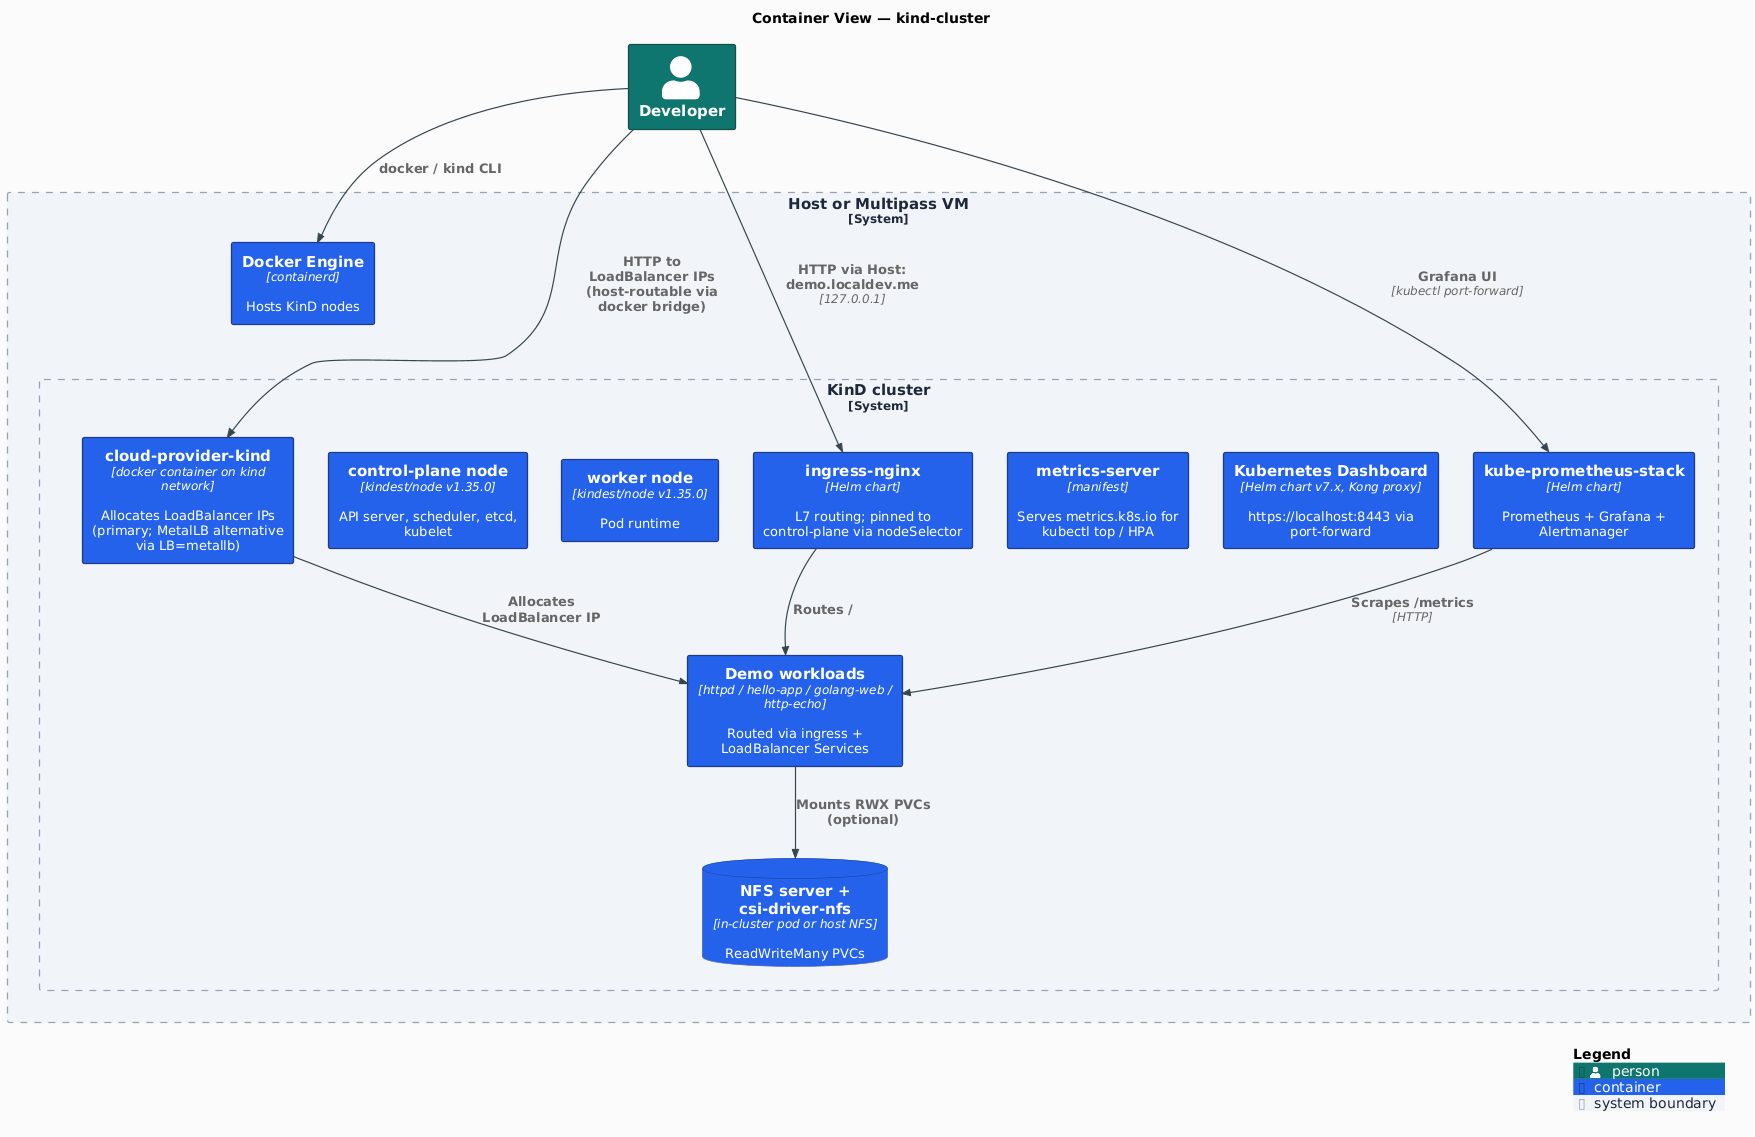
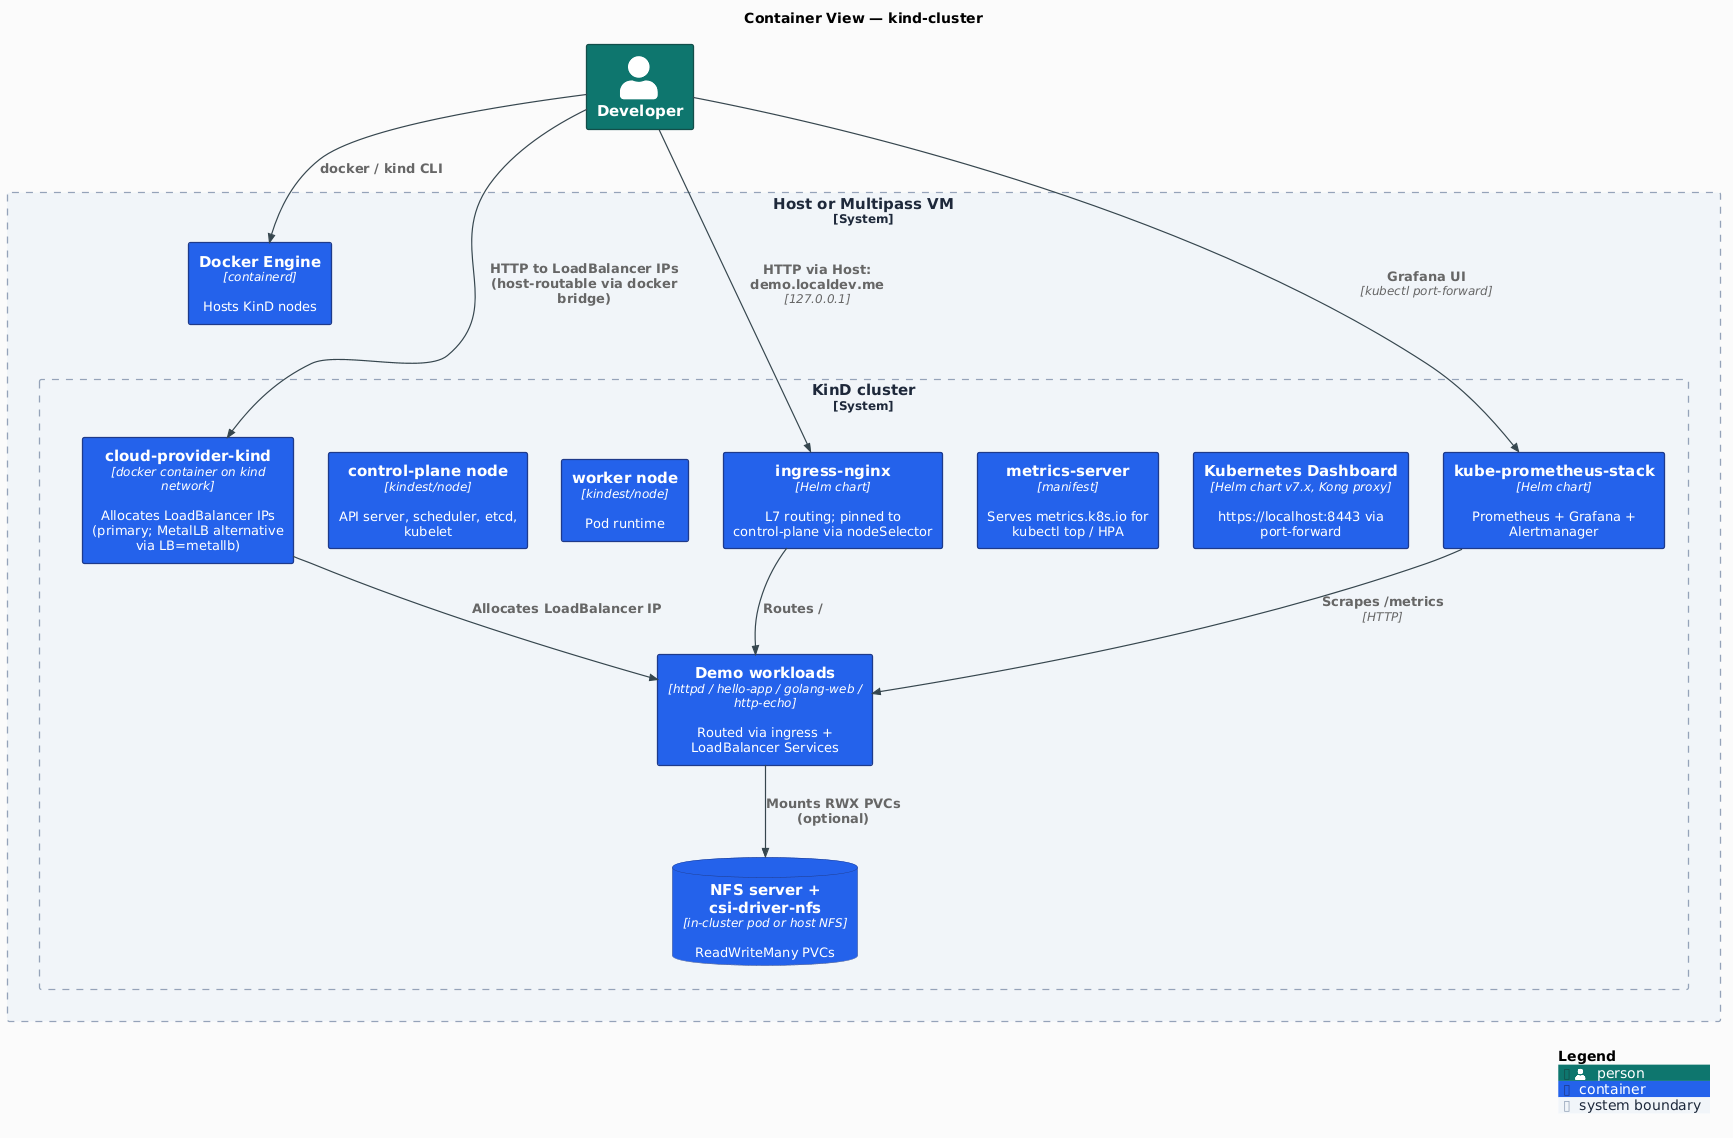
chore: apply /project-review findings across CI, Renovate, scripts, docs (#52)
Remediation of all findings from a full /project-review (Makefile, CI
workflows, Renovate, README, CLAUDE.md, architecture diagrams, e2e test
coverage). Verified: make ci, make ci-run, and a local make e2e (12/12)
all pass.

Fixes
- e2e: `make e2e` was silently broken — install-all omits metrics-server
  and in-cluster NFS, but e2e-smoke.sh asserted them unconditionally. Both
  are now opt-in (TEST_METRICS_SERVER / TEST_NFS), mirroring the existing
  TEST_MONITORING pattern; the three e2e workflows set the flags.
- ci.yml: paths-filter `base:` gated to push events (removes the PR
  warning annotation); tag pushes now force the full pipeline instead of
  skipping on an empty path-filter diff.
- Makefile: PLANTUML_VERSION is now a prerequisite of the rendered PNGs
  (version-stamped file), so a pinned-image bump forces a re-render. This
  surfaced a stale committed c4-context.png, re-rendered here.
- test-registry.sh: ephemeral local port + response-body assertion.
- .mise.toml: kubectl 1.36.0 -> 1.36.1 (had drifted behind the Makefile).
- clean: now removes the generated cert/token scratch artifacts.

Feature
- Unit-test harness: scripts/lib.sh (sourceable helpers) + tests/lib.bats
  (bats) + `make test`, wired into static-check. bats pinned in .mise.toml.

Renovate
- Pinned and tracked the previously-untracked kube-prometheus-stack and
  metrics-server Helm charts and the local-registry image.
- Grouped kindest/node with the kind tool bump.

Docs
[…]

Pull request: chore: apply /project-review findings across CI, Renovate, scripts, docs
## Summary

Remediation of all findings from a full `/project-review` across the
Makefile, CI workflows, Renovate config, README, CLAUDE.md, architecture
diagrams, and e2e test coverage.

### Fixes
- **`make e2e` was silently broken** — `install-all` does not install
  metrics-server or in-cluster NFS, but `e2e-smoke.sh` asserted them
  unconditionally, so a fresh `make e2e` always failed those checks (CI
  only passed because each workflow re-installs them as extra steps).
  The metrics-server and NFS assertions are now opt-in via
  `TEST_METRICS_SERVER` / `TEST_NFS`, mirroring the existing
  `TEST_MONITORING` pattern; the three e2e workflows set the flags.
- **`ci.yml` path-filter** — `base:` is gated to push events (it is
  ignored on `pull_request` events and emitted a warning annotation on
  every PR run); tag pushes (`v*`) now force the full pipeline instead of
  skipping when the path-filter computes an empty diff.
- **Diagram drift gate** — `PLANTUML_VERSION` is now a prerequisite of the
  rendered PNGs (via a version-stamped file), so a pinned-image bump
  forces a re-render. This surfaced a stale committed `c4-context.png`
  (rendered by an older PlantUML); it has been re-rendered.
- **`test-registry.sh`** — ephemeral local port (avoids an `:8080`
  collision) + a response-body assertion instead of a bare status check.
- **`.mise.toml`** — kubectl `1.36.0` → `1.36.1` (had drifted behind the
  Makefile pin).
[…]

diff --git a/CLAUDE.md b/CLAUDE.md
@@ -13,15 +13,17 @@
 ```
 Makefile              # Task runner with help target
 .mise.toml            # Pinned tool versions (shellcheck, actionlint, gitleaks,
-                      #   trivy, hadolint, act, jq, kind, kubectl)
+                      #   trivy, hadolint, act, bats, jq, kind, kubectl)
 scripts/              # Bash scripts for cluster lifecycle and app deployment
-                      #   (includes kind-add-{metallb,cloud-provider-kind}.sh
-                      #    and migrate-from-metallb.sh)
+                      #   (lib.sh = sourceable helpers; kind-add-* installers;
+                      #    migrate-from-metallb.sh; e2e-*.sh smoke tests)
+tests/                # bats unit tests for scripts/lib.sh (make test)
 k8s/                  # Kubernetes manifests (kind config, dashboard, NFS, etc.)
 images/               # Dockerfiles (kubectl-test image)
-docs/diagrams/        # PlantUML C4 sources + rendered PNGs
+docs/diagrams/        # PlantUML C4 sources (.puml) + rendered PNGs (out/)
 vm/                   # Multipass cloud-init playbook
-.github/workflows/    # CI: ci.yml, e2e-metallb.yml, cleanup-runs.yml
+.github/workflows/    # CI: ci.yml, e2e-metallb.yml, monitoring-test.yml,
+                      #   registry-test.yml, cleanup-runs.yml
 ```
 
 ## Common Commands
@@ -49,10 +51,12 @@ make vm-down                           # Stop + delete + purge the VM
 # Local quality gates (pinned tools installed on first run via `make deps`;
 # mise is auto-bootstrapped into ~/.local/bin if missing)
 make lint                              # shellcheck + actionlint + hadolint
+make test                              # bats unit tests for scripts/lib.sh helpers
 make secrets                           # gitleaks (suppressions: .gitleaks.toml)
 make trivy-fs                          # Trivy CVE/secret/misconfig scan (suppressions: .trivyignore.yaml)
 make trivy-config                      # Trivy K8s manifest scan
 make mermaid-lint                      # Validate mermaid diagrams in all *.md files (via docker)
+make diagrams                          # Render PlantUML C4 diagrams to PNG (via docker)
 make diagrams-check                    # Verify committed PNGs match docs/diagrams/*.puml (via docker)
 make static-check                      # Composite: all of the above
 make ci                                # static-check + renovate-validate
@@ -66,9 +70,9 @@ make vulncheck                         # Alias for trivy-fs (portfolio-standard 
 
 ## CI/CD
 
-- **ci.yml** — runs on push to `main`, tags `v*`, and PRs. Five jobs: `changes` → `static-check` → (`docker` ‖ `e2e`) → `ci-pass`. The `changes` job uses `dorny/paths-filter` to detect whether any non-doc file changed; downstream jobs short-circuit on doc-only changes via `if: needs.changes.outputs.code == 'true'`. `static-check` and `e2e` use `jdx/mise-action` to install the pinned toolchain from `.mise.toml` (kind, kubectl, jq, shellcheck, actionlint, gitleaks, trivy, hadolint, act — Renovate-tracked via the mise manager). The `e2e` job installs **cloud-provider-kind** as the LoadBalancer provider, runs all install/deploy scripts, polls until the ingress route is data-plane-ready (K1.5 — IP assigned ≠ IP routable), then `make e2e` (delegates to `scripts/e2e-smoke.sh`) for body-asserting smoke tests via `docker exec` curl. `helm/kind-action` was dropped in favor of explicit `make` invocations to avoid the action's built-in Post-step teardown flaking on Docker daemon `did not receive an exit event` errors at job-end.
-- **e2e-metallb.yml** — weekly cron (Sunday 04:00 UTC) + `workflow_dispatch` + push on `scripts/kind-add-metallb.sh` (positive-include `paths:` filter is intentional — workflow only runs when its own code changes). Mirrors the `e2e` job but installs **MetalLB** instead of cloud-provider-kind; same K1.5 route-readiness poll before `LB=metallb make e2e`. Final step runs `scripts/e2e-migrate-smoke.sh` to exercise the **MetalLB → cloud-provider-kind migration** path so regressions in `migrate-from-metallb.sh` surface here.
-- **monitoring-test.yml** — weekly cron (Sunday 05:00 UTC) + `workflow_dispatch` + push on `scripts/kind-add-kube-prometheus-stack.sh`. Brings up the full stack via `make install-all` (cloud-provider-kind), installs `kube-prometheus-stack`, then runs `TEST_MONITORING=yes make e2e` to assert Grafana gets a LoadBalancer IP and the admin secret is mintable. Off the default install-all path — kept on its own cron to keep PR feedback fast.
+- **ci.yml** — runs on push to `main`, tags `v*`, and PRs. Five jobs: `changes` → `static-check` → (`docker` ‖ `e2e`) → `ci-pass`. The `changes` job uses `dorny/paths-filter` to detect whether any non-doc file changed; downstream jobs short-circuit on doc-only changes via `if: needs.changes.outputs.code == 'true'`. `static-check` and `e2e` use `jdx/mise-action` to install the pinned toolchain from `.mise.toml` (kind, kubectl, jq, shellcheck, actionlint, gitleaks, trivy, hadolint, act — Renovate-tracked via the mise manager). The `e2e` job installs **cloud-provider-kind** as the LoadBalancer provider, runs all install/deploy scripts, polls until the ingress route is data-plane-ready (K1.5 — IP assigned ≠ IP routable), then `make e2e-smoke` (delegates to `scripts/e2e-smoke.sh`) for body-asserting smoke tests via `docker exec` curl. `helm/kind-action` was dropped in favor of explicit `make` invocations to avoid the action's built-in Post-step teardown flaking on Docker daemon `did not receive an exit event` errors at job-end.
+- **e2e-metallb.yml** — weekly cron (Sunday 04:00 UTC) + `workflow_dispatch` + push on `scripts/kind-add-metallb.sh` (positive-include `paths:` filter is intentional — workflow only runs when its own code changes). Mirrors the `e2e` job but installs **MetalLB** instead of cloud-provider-kind; same K1.5 route-readiness poll before `LB=metallb make e2e-smoke`. Final step runs `scripts/e2e-migrate-smoke.sh` to exercise the **MetalLB → cloud-provider-kind migration** path so regressions in `migrate-from-metallb.sh` surface here.
+- **monitoring-test.yml** — weekly cron (Sunday 05:00 UTC) + `workflow_dispatch` + push on `scripts/kind-add-kube-prometheus-stack.sh`. Brings up the full stack via `make install-all` (cloud-provider-kind), installs `kube-prometheus-stack`, then runs `TEST_MONITORING=yes make e2e-smoke` to assert Grafana gets a LoadBalancer IP and the admin secret is mintable. Off the default install-all path — kept on its own cron to keep PR feedback fast.
 - **registry-test.yml** — weekly cron (Sunday 06:00 UTC) + `workflow_dispatch` + push on registry-related files. Exercises the alternative `make registry` cluster (containerd-mirrored local registry at `localhost:5001`) via `make registry-test` (pull → retag → push → deploy → curl). Distinct from the install-all flow; separate workflow rather than another job.
 - **cleanup-runs.yml** — weekly cron (Sunday midnight). Two jobs: `cleanup-runs` (prunes old runs, keeps latest 5) and `cleanup-caches` (deletes caches from closed PR branches).
 
@@ -76,14 +80,14 @@ make vulncheck                         # Alias for trivy-fs (portfolio-standard 
 
 The following paths require resources GitHub-hosted runners can't reliably provide; they are verified manually before each release:
 
-- **`make vm-up` / `make vm-install-all` (Multipass)** — nested virtualization isn't reliably supported on `ubuntu-24.04` runners; cloud-init bootstrap takes 3–5 minutes; CI cost outweighs catch rate. Verify locally before tagging a release.
+- **`make vm-up` / `make vm-install-all` (Multipass)** — nested virtualization isn't reliably supported on `ubuntu-24.04` GitHub-hosted runners; cloud-init bootstrap takes 3–5 minutes; CI cost outweighs catch rate. Verify locally before tagging a release.
 - **`make nfs-host-setup`** — modifies `/etc/exports`, opens the firewall, requires interactive `sudo`. Out of scope for unattended CI. Verify locally on Ubuntu/Debian before tagging.
 
 ## Dependencies
 
 Runtime (user provides): Docker, helm, curl, base64.
 
-Pinned in [`.mise.toml`](./.mise.toml) and installed by `make deps` via [mise](https://mise.jdx.dev): `kind`, `kubectl`, `jq`, `shellcheck`, `actionlint`, `gitleaks`, `trivy`, `hadolint`, `act`. `make deps` auto-bootstraps mise into `~/.local/bin` if missing, then runs `mise install` (idempotent; no-op at pinned versions).
+Pinned in [`.mise.toml`](./.mise.toml) and installed by `make deps` via [mise](https://mise.jdx.dev): `kind`, `kubectl`, `jq`, `shellcheck`, `actionlint`, `gitleaks`, `trivy`, `hadolint`, `act`, `bats`. `make deps` auto-bootstraps mise into `~/.local/bin` if missing, then runs `mise install` (idempotent; no-op at pinned versions).
 
 Docker-image-pinned in Makefile (Renovate-tracked via inline `# renovate:` comments): `KUBECTL_VERSION` (shared with `images/Dockerfile` `--build-arg`; kept in sync with `aqua:kubernetes/kubectl` in `.mise.toml` via the `kubectl` packageRule), `MERMAID_CLI_VERSION`, `PLANTUML_VERSION`, `PUML2DRAWIO_VERSION`, `KIND_NODE_IMAGE`, `CLOUD_PROVIDER_KIND_VERSION`. `mermaid-cli` is invoked from `make mermaid-lint` (part of the `static-check` composite); `plantuml/plantuml` from `make diagrams` / `diagrams-check`.
 

diff --git a/README.md b/README.md
@@ -3,7 +3,7 @@
 [![License: MIT](https://img.shields.io/badge/License-MIT-brightgreen.svg)](https://opensource.org/licenses/MIT)
 [![Renovate enabled](https://img.shields.io/badge/renovate-enabled-brightgreen.svg)](https://app.renovatebot.com/dashboard#github/AndriyKalashnykov/kind-cluster)
 
-# kind-cluster
+# kind-cluster — Local Kubernetes Lab on KinD
 
 Local Kubernetes lab on Docker via [KinD](https://kind.sigs.k8s.io/) — ingress, LoadBalancer (cloud-provider-kind, or MetalLB), Dashboard, RWX NFS storage, and Prometheus wired up out of the box. Run on your host, or inside a throwaway Multipass VM.
 
@@ -14,8 +14,8 @@ Local Kubernetes lab on Docker via [KinD](https://kind.sigs.k8s.io/) — ingress
 | Cluster | [KinD](https://kind.sigs.k8s.io/) v0.31.0 on Docker | Fastest local k8s — single binary, multi-node config, no VM overhead |
 | Ingress | [ingress-nginx](https://kubernetes.github.io/ingress-nginx/) | Reference controller; matches what most cloud-managed clusters expose |
 | Load Balancer (default) | [cloud-provider-kind](https://github.com/kubernetes-sigs/cloud-provider-kind) v0.10.0 | One host container watches `Service: LoadBalancer` and hands out IPs from the `kind` docker bridge — routable from your laptop with zero extra setup. Kind-team maintained. |
-| Load Balancer (alternative) | [MetalLB](https://metallb.universe.tf/) v0.15.3 | In-cluster install (controller + `speaker` DaemonSet + CRDs). Pick it when you need L2/BGP announcement parity with prod. Enable with `LB=metallb make install-all` — see [Which LoadBalancer?](#which-loadbalancer). |
-| Storage (RWX) | [csi-driver-nfs](https://github.com/kubernetes-csi/csi-driver-nfs) v4.13.1 | Same driver backs both in-cluster and host-NFS modes — only the StorageClass differs |
+| Load Balancer (alternative) | [MetalLB](https://metallb.universe.tf/) v0.16.0 | In-cluster install (controller + `speaker` DaemonSet + CRDs). Pick it when you need L2/BGP announcement parity with prod. Enable with `LB=metallb make install-all` — see [Which LoadBalancer?](#which-loadbalancer). |
+| Storage (RWX) | [csi-driver-nfs](https://github.com/kubernetes-csi/csi-driver-nfs) v4.13.2 | Same driver backs both in-cluster and host-NFS modes — only the StorageClass differs |
 | Observability | [kube-prometheus-stack](https://github.com/prometheus-community/helm-charts) | One-shot Prometheus + Grafana + Alertmanager + node-exporter for HPA / dashboards |
 | Dashboard | [Kubernetes Dashboard](https://github.com/kubernetes/dashboard) v7.x | Helm chart v7 ships Kong-fronted dashboard with admin token in repo root |
 | CI | GitHub Actions | `make deps` + `make kind-create` — same Makefile path users hit locally; CI verifies install scripts on every push |
@@ -53,7 +53,7 @@ Pinned in [`.mise.toml`](./.mise.toml), auto-installed by `make deps` via [mise]
 | Tool | Pinned version |
 |------|----------------|
 | [kind](https://kind.sigs.k8s.io/) | 0.31.0 |
-| [kubectl](https://kubernetes.io/docs/tasks/tools/) | 1.36.0 |
+| [kubectl](https://kubernetes.io/docs/tasks/tools/) | 1.36.1 |
 | [jq](https://github.com/jqlang/jq) | 1.8.1 |
 | [shellcheck](https://github.com/koalaman/shellcheck) | 0.11.0 |
 | [actionlint](https://github.com/rhysd/actionlint) | 1.7.12 |
@@ -61,6 +61,7 @@ Pinned in [`.mise.toml`](./.mise.toml), auto-installed by `make deps` via [mise]
 | [trivy](https://github.com/aquasecurity/trivy) | 0.70.0 |
 | [hadolint](https://github.com/hadolint/hadolint) | 2.14.0 |
 | [act](https://github.com/nektos/act) | 0.2.88 |
+| [bats](https://github.com/bats-core/bats-core) | 1.13.0 |
 
 Renovate's native `mise` manager keeps `.mise.toml` up to date (platform automerge enabled).
 
@@ -158,7 +159,7 @@ make nfs-incluster
 kubectl apply -f ./k8s/nfs/pvc-incluster.yaml   # sample RWX PVC
 ```
 
-Pinned versions: `csi-driver-nfs` v4.13.1. Source: `scripts/kind-add-nfs-incluster.sh`.
+Pinned versions: `csi-driver-nfs` v4.13.2. Source: `scripts/kind-add-nfs-incluster.sh`.
 
 ### Option 2 — host-side NFS (persistent across cluster recreates)
 
@@ -243,7 +244,7 @@ First boot takes ~3–5 min (Ubuntu cloud image download, apt-get install, docke
 
 The cloud-init playbook (`vm/cloud-init.yaml`) runs once at first boot:
 
-1. Installs Docker CE, KinD v0.31.0, kubectl v1.36.0, helm v4.1.4
+1. Installs Docker CE, KinD v0.31.0, kubectl v1.36.1, helm v4.2.0
 2. Installs `nfs-kernel-server`, exports `/srv/k8s_nfs_storage`
 3. Clones this repo to `/home/ubuntu/kind-cluster`
 4. Writes `/var/lib/kind-cluster-bootstrapped` as the finished sentinel — `vm-up.sh` polls this file.
@@ -507,7 +508,7 @@ This is an **alternative** to the default `make install-all` flow — the regist
 | Category | Target | Description |
 |---|---|---|
 | Cluster | `make kind-up` | docker-compose-style alias for `install-all` (bring the whole stack up) |
-| Cluster | `make kind-down` | docker-compose-style alias for `delete-cluster` (tear the whole stack down) |
+| Cluster | `make kind-down` | docker-compose-style alias for `kind-destroy` (tear the whole stack down) |
 | Cluster | `make install-all` | cluster + Nginx ingress + LoadBalancer (CPK default, or `LB=metallb`) + demo workloads |
 | Cluster | `make install-all-no-demo-workloads` | same minus demo apps |
 | Cluster | `make kind-create` | Create KinD cluster only (alias: `make create-cluster`) |
@@ -515,7 +516,7 @@ This is an **alternative** to the default `make install-all` flow — the regist
 | Cluster | `make export-cert` | Export k8s client keys and CA certificates |
 | Cluster | `make e2e` | Bring up the full stack and run smoke tests (chains `install-all` + `e2e-smoke`) |
 | Cluster | `make e2e-smoke` | Smoke-test an already-running cluster (no install) |
-| Cluster | `make clean` | Tear down cluster + remove scratch artifacts |
+| Cluster | `make clean` | Tear down cluster + remove generated scratch artifacts (certs, tokens) |
 | Add-ons | `make dashboard-install` | Kubernetes Dashboard (Helm chart v7.14.0) + admin ServiceAccount |
 | Add-ons | `make dashboard-forward` | Port-forward dashboard to `https://localhost:8443` and open browser |
 | Add-ons | `make dashboard-token` | Print the admin-user token |
@@ -539,8 +540,10 @@ This is an **alternative** to the default `make install-all` flow — the regist
 | Registry | `make registry-test` | push `hello-app:2.0` to the local registry and deploy it |
 | Utilities | `make deps` | bootstrap mise + install pinned tools from `.mise.toml`; verify docker/helm/curl/base64 on PATH |
 | Utilities | `make image-build` | build `kubectl-test` Docker image |
+| Utilities | `make image-test` | build + runtime-verify the `kubectl-test` image (the `docker` CI job) |
 | Utilities | `make renovate-validate` | validate `renovate.json` |
 | Quality | `make lint` | shellcheck + actionlint + hadolint + scripts-exec-bit check |
+| Quality | `make test` | bats unit tests for the `scripts/lib.sh` helpers |
 | Quality | `make secrets` | gitleaks (suppressions: `.gitleaks.toml`) |
 | Quality | `make trivy-fs` | Trivy fs scan (vulns, secrets, misconfigs; CRITICAL/HIGH) |
 | Quality | `make vulncheck` | Alias for `trivy-fs` (portfolio-standard target name) |
@@ -550,7 +553,7 @@ This is an **alternative** to the default `make install-all` flow — the regist
 | Quality | `make diagrams-check` | verify committed PNGs match current `.puml` source |
 | Quality | `make diagrams-clean` | remove rendered PNGs under `docs/diagrams/out/` and `.drawio` exports under `docs/diagrams/drawio/` |
 | Quality | `make diagrams-drawio` | convert `.puml` sources to editable `.drawio` XML via pinned [`ghcr.io/andriykalashnykov/puml2drawio`](https://github.com/AndriyKalashnykov/puml2drawio); output under `docs/diagrams/drawio/` (gitignored — on-demand, for local editing) |
-| Quality | `make static-check` | composite: lint + secrets + trivy-fs + trivy-config + mermaid-lint + diagrams-check |
+| Quality | `make static-check` | composite: lint + test + secrets + trivy-fs + trivy-config + mermaid-lint + diagrams-check |
 | Quality | `make ci` | full local pipeline: `static-check` + `renovate-validate` |
 | Quality | `make ci-run` | run the GitHub Actions workflow locally via [act](https://github.com/nektos/act) |
 
@@ -568,7 +571,7 @@ Suppressions (intentional, justified inline):
 | Job | Needs | Steps |
 |-----|-------|-------|
 | **changes** | — | `dorny/paths-filter` outputs `code=true` if anything outside docs/markdown/images changed; downstream jobs gate on it |
-| **static-check** | changes | `make static-check` (lint + secrets + trivy-fs + trivy-config + mermaid-lint + diagrams-check) |
+| **static-check** | changes | `make static-check` (lint + test + secrets + trivy-fs + trivy-config + mermaid-lint + diagrams-check) |
 | **docker** | changes, static-check | `make image-test` — build and runtime-verify the `kubectl-test` image |
 | **e2e** | changes, static-check | `jdx/mise-action` + `make deps` + `make kind-create`, install ingress + cloud-provider-kind + dashboard, deploy all demo workloads, K1.5 route-readiness poll, run `make e2e-smoke` for body-asserting smoke tests via `docker exec` (~4 min end-to-end) |
 | **ci-pass** | changes, static-check, docker, e2e | Aggregate gate — fails if any upstream job failed or was cancelled |